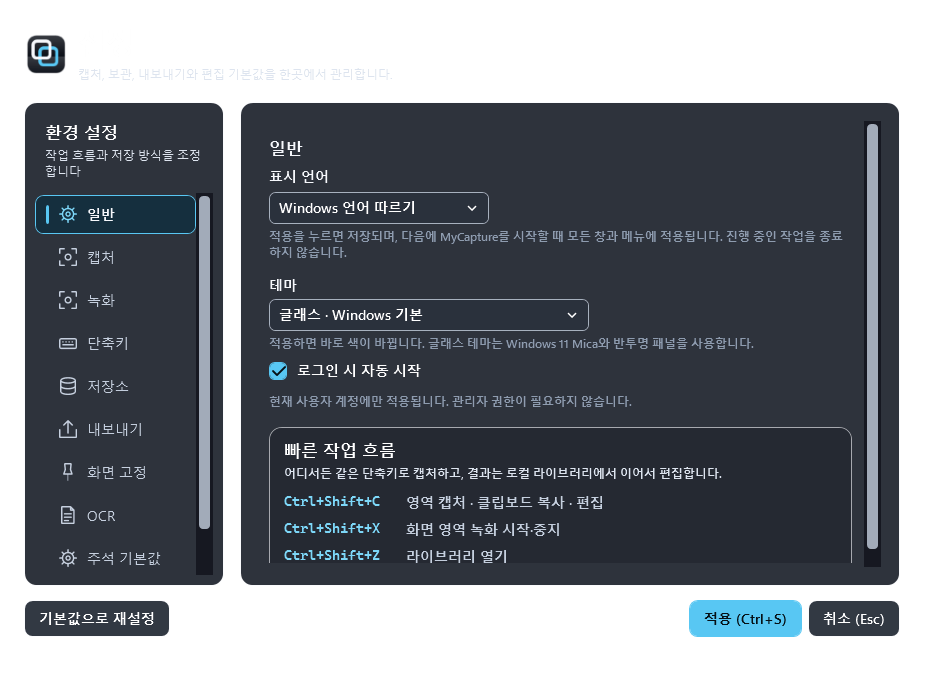
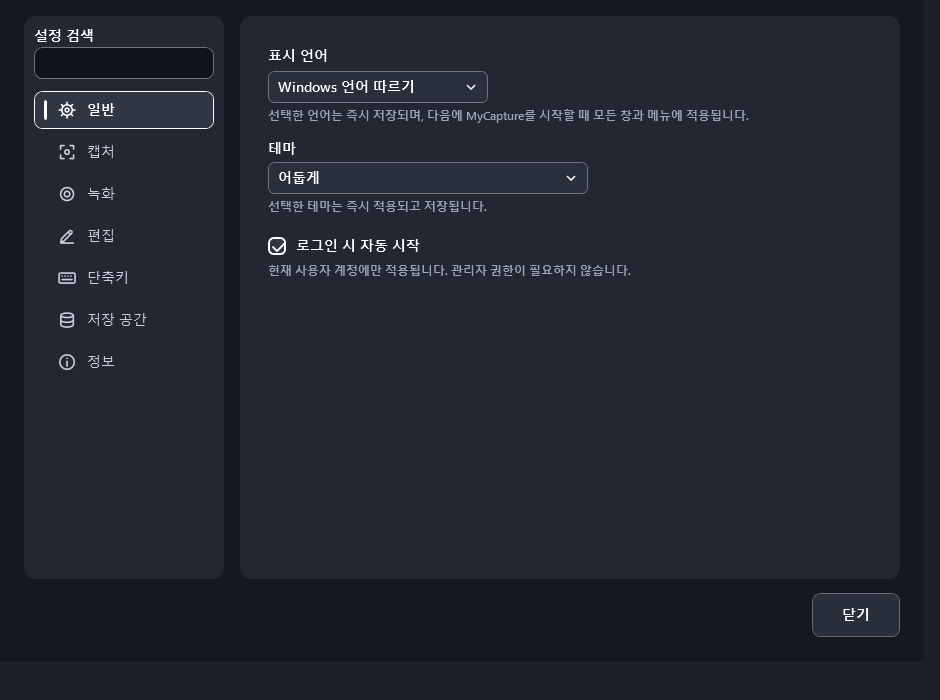
docs(guides): 4.4.0 user guide text and screenshots
- New-install defaults (two global shortcuts, quick card after capture),
  four themes, instant settings, support dialog, property bar, details column.
- Screenshots re-rendered from the 4.4.0 build in the Dark theme with
  new-install defaults; library-midnight.png becomes library-glass.png.

diff --git a/docs/guides/README.md b/docs/guides/README.md
@@ -1,53 +1,77 @@
 # 사용법 가이드
 
-MyCapture의 핵심 흐름을 스크린샷과 함께 정리했습니다. 모든 이미지는 MyCapture의 UX 자가 검사(`--selftest-ux-review`)가 실제 창을 렌더링해 만든 것입니다.
+MyCapture 4.4.0의 캡처, 편집, 라이브러리와 설정 사용법입니다. 화면은 **어둡게** 테마를 기준으로 설명합니다.
 
-## 1. 라이브러리 — 캡처와 영상을 한곳에서
+## 1. 캡처와 빠른 카드
 
-라이브러리(`Ctrl+Shift+Z`)는 이미지와 MP4를 함께 보여주고, 날짜별로 묶어 줍니다. 왼쪽 필터(모두 보기 / 이미지 / 동영상 / 보관한 항목)로 좁히고, 타일을 클릭하면 오른쪽 상세 패널에서 시간·크기·보관 기한과 편집·재생·복사 동작을 쓸 수 있습니다.
+새로 설치하면 전역 단축키는 **영역 캡처 `Ctrl+Shift+C`**와 **영역 녹화 시작/중지 `Ctrl+Shift+X`** 두 개만 지정되어 있습니다. 라이브러리 열기, 클립보드 핀(예: `F3`), 핀 모두 숨기기/보이기, GitHub 첨부 URL 만들기는 **설정 → 단축키**에서 지정합니다. 이전 버전에서 사용하던 단축키는 유지됩니다.
 
-![라이브러리](shots/library-midnight.png)
+영역 캡처를 마치면 작은 카드가 나타납니다. 카드를 클릭하거나 `Alt+Q`를 눌러 활성화한 다음 작업을 선택합니다.
 
-- 검색창(`Ctrl+F`)은 제목, 창 이름, 인식된 텍스트를 한 번에 찾습니다.
-- 타일 하단 아이콘: 핀으로 띄우기, 빠른 저장, 편집, 삭제, 더보기(메뉴).
-- 여러 항목은 Ctrl/Shift 클릭으로 선택해 한 번에 삭제하거나 내보낼 수 있습니다.
+| 키 | 동작 |
+|---|---|
+| `E` | 편집 |
+| `P` | 핀으로 띄우기 |
+| `S` | 저장 |
+| `T` | 텍스트 복사 |
+| `C` | 이미지 복사 |
 
-## 2. 주석 편집기 — 캡처 위에 바로 표시
+캡처 직후 편집기를 열려면 **설정 → 일반 → 캡처 후 동작**에서 **편집기 열기**를 선택합니다. 기존 사용자는 저장된 캡처 후 동작을 유지합니다.
 
-영역 캡처(`Ctrl+Shift+C`)를 놓으면 편집기가 열립니다. 사각형·화살표·연필·텍스트·이미지 레이어를 쌓고, 색·두께·채우기 투명도를 조절합니다. `Ctrl+C`는 이미지 복사, `Ctrl+S`는 PNG 저장 + 클립보드 복사입니다.
+## 2. 라이브러리 — 캡처와 영상 찾기
 
-![주석 편집기](shots/annotation-glass.png)
+트레이 메뉴에서 라이브러리를 열거나 설정에서 지정한 단축키를 사용합니다. 이미지와 MP4를 함께 찾고, 왼쪽의 이미지·동영상·보관함 필터로 범위를 좁힐 수 있습니다. 이미지 타일을 선택하면 오른쪽 상세 패널에서 시간·크기·보관 상태를 확인하고 편집·핀·복사를 실행합니다.
 
-- 레이어는 비파괴로 보존되며 실행 취소/다시 실행이 가능합니다.
-- `Ctrl+Shift+R`(빠른 가리기)은 로컬 OCR로 전화번호·카드번호·API 키 같은 민감정보 후보를 찾아 가림막을 한 번에 만듭니다.
+![라이브러리](shots/library-glass.png)
 
-## 3. 영상 편집기 — 자르기, 텍스트, GIF/MP4 내보내기
+- 검색창(`Ctrl+F`)에서 제목, 창 이름, 인식된 텍스트를 찾습니다.
+- 이미지 타일에 마우스를 올리거나, 타일을 선택하거나, 키보드 포커스를 옮기면 핀·복사·편집·더보기 버튼이 나타납니다.
+- 여러 항목은 `Ctrl`/`Shift` 클릭으로 선택해 삭제하거나 ZIP으로 내보낼 수 있습니다.
+- 새 설치의 이미지는 보관 시간 제한이 없습니다. 전체 보관 한도는 **5 GiB / 1,000개**이며, 한도를 넘으면 보관하지 않은 오래된 항목부터 정리합니다. 보관 기간과 한도는 설정에서 변경할 수 있습니다.
 
-영역 녹화(`Ctrl+Shift+X`)를 중지하면 영상 편집기가 열립니다. 잘라내기(In/Out), 프레임 탐색, 화면 위치·시간 텍스트 편집이 모두 비파괴 레이어로 저장됩니다.
+## 3. 이미지 편집기 — 캡처 위에 표시
+
+캡처 후 카드에서 **편집**을 선택하거나 라이브러리에서 이미지를 엽니다. 왼쪽에서 사각형·화살표·연필·텍스트 등의 도구를 선택하고, **캔버스 위 가로 속성 바**에서 색·선 두께·선 종류·내부 투명도를 조절합니다. 창이 좁으면 속성 바가 줄바꿈됩니다.
+
+![이미지 편집기](shots/annotation-glass.png)
+
+- 편집 내용은 비파괴 레이어로 보존되며 실행 취소/다시 실행이 가능합니다.
+- `Ctrl+C`는 이미지 복사, `Ctrl+S`는 PNG 저장 후 이미지 복사입니다.
+- `Ctrl+Shift+R`(**개인정보 가리기**)은 로컬 OCR로 전화번호·카드번호·API 키 같은 민감정보 후보를 찾아 편집 가능한 가림막을 추가합니다.
+
+## 4. 영상 편집기 — 자르기, 텍스트, 내보내기
+
+영역 녹화(`Ctrl+Shift+X`)를 중지하면 영상 편집기가 열립니다. 위쪽의 **자르기·텍스트·내보내기·저장**으로 주요 작업을 수행합니다. 남길 구간은 타임라인 손잡이로 조절하며, 텍스트는 화면 위치와 표시 시간을 편집할 수 있습니다.
+
+**자세히**를 펼치면 오른쪽 열에 프레임 이동, 시작·끝 시간 입력과 레이어 목록이 나타납니다. 아래 화면은 자세히를 펼친 상태입니다.
 
 ![영상 편집기](shots/video-editor-glass.png)
 
-내보내기 흐름:
+**저장**은 자르기와 레이어 편집을 라이브러리의 녹화에 적용합니다. **내보내기**는 편집 결과로 새 MP4 또는 GIF 파일을 만듭니다.
 
-1. 오른쪽 위 **내보내기 · MP4 / GIF** 클릭
-2. 형식에서 **GIF** 선택 — 품질(960px/10fps, 960px/5fps, 640px/10fps, 480px/5fps), 재생 속도, 공유 목표 크기를 고르면 실제 GIF 샘플이 반복 재생되고 예상 크기와 권장 설정이 표시됩니다. 길이 제한은 없습니다
-3. **결과 계산**으로 정확한 파일 크기 확인(6초 이하 구간은 샘플이 곧 결과라 바로 저장할 수 있습니다)
-4. **다른 이름으로 저장**으로 GIF 저장
+GIF 내보내기:
 
-MP4는 대상 파일 크기(품질 슬라이더)를 정해 계산 후 저장합니다.
+1. 위쪽 **내보내기**를 선택합니다.
+2. 형식에서 **GIF**를 선택합니다. 품질(960px/10fps, 960px/5fps, 640px/10fps, 480px/5fps), 재생 속도와 공유 목표 크기를 정하면 GIF 샘플 미리보기와 예상 크기, 권장 설정이 표시됩니다.
+3. **내보내기**를 누르고 저장 위치와 파일 이름을 지정합니다. 변환을 마치면 선택한 위치에 GIF가 저장됩니다.
 
-## 4. 설정 — 언어·테마·단축키
+MP4는 **파일 크기**에서 **원본 화질·작게·더 작게**를 선택합니다. 필요한 경우 **고급**에서 파일 크기 감소 목표를 조절한 뒤 **내보내기**를 누르고 저장 위치를 지정합니다.
 
-설정에서 언어(한국어/영어/Windows 따르기), 테마(글래스·글래스 라이트·작업 공간·주간·자정·고대비), 로그인 시작, 단축키를 바꿀 수 있습니다. 테마는 즉시 적용되고 언어는 다음 시작부터 적용됩니다.
+## 5. 설정 — 검색과 자동 저장
+
+설정 왼쪽 위 **설정 검색**으로 원하는 항목을 찾습니다. 변경 사항은 자동으로 저장되며 별도의 적용 버튼은 없습니다. 테마는 즉시 반영되고, 언어는 다음 앱 시작부터 적용됩니다.
 
 ![설정](shots/settings-glass.png)
 
-## GIF 사용법 가이드 만들기 (이 문서를 만든 방법)
+- 언어: 한국어 / 영어 / Windows 언어 따르기
+- 테마: **시스템 따르기 / 밝게 / 어둡게 / 고대비**. 새 설치는 시스템 따르기이며, 일반 테마의 포인트 색은 빨강으로 고정됩니다. 고대비에서는 시스템 접근성 색상을 사용합니다.
+- **정보 → 기본값으로 재설정**에서 설정을 초기화합니다.
+- 트레이 메뉴 또는 **설정 → 정보 → 문의하기**에서 진단 정보 복사와 GitHub 이슈 작성을 사용할 수 있습니다. Store 설치판에서는 Store 리뷰도 열 수 있습니다.
 
-이 가이드의 스크린샷은 MyCapture 자체 기능으로 만들 수 있습니다:
+## 6. 녹화한 화면을 GIF로 저장
 
-1. **영역 녹화**(`Ctrl+Shift+X`)로 설명할 화면 영역을 녹화합니다 (녹화 중 오디오는 없습니다).
-2. 녹화가 끝나면 **영상 편집기**에서 잘라내기(In/Out)로 핵심 구간만 남깁니다.
-3. **내보내기 · MP4 / GIF** → 형식 GIF → 품질/속도 선택 → **결과 계산** → **다른 이름으로 저장**.
+1. **영역 녹화**(`Ctrl+Shift+X`)로 설명할 화면을 녹화합니다. 녹화에는 오디오가 포함되지 않습니다.
+2. 녹화를 마치고 영상 편집기에서 타임라인 손잡이로 핵심 구간만 남깁니다.
+3. **내보내기 → GIF**에서 품질과 속도를 선택한 뒤 **내보내기**를 누르고 저장 위치와 파일 이름을 지정합니다.
 
 GIF 크기는 구간 길이에 비례해 커집니다. 내보내기 화면의 예상 크기와 권장 설정을 확인하고, 목표 크기를 넘으면 구간을 줄이거나 MP4로 내보내십시오.
